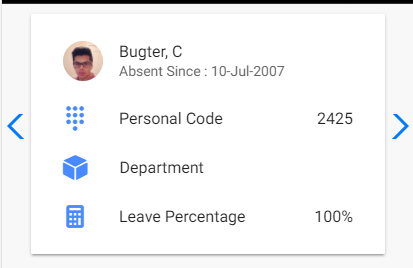
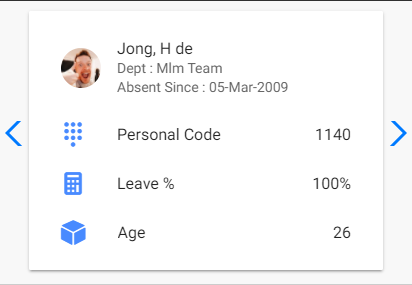
Working on Observations

diff --git a/src/pages/home/home.html b/src/pages/home/home.html
@@ -4,12 +4,13 @@
       <ion-slide *ngFor="let emp of absentemployees" style="margin-top: -14px;">
         <ion-card></ion-card>
         <ion-card>
-          <ion-item>
+          <ion-item>           
             <ion-item>
               <ion-avatar item-start>
                 <img [src]="emp.icon" alt="">
               </ion-avatar>
               <h2>{{emp.name}}</h2>
+              <p>Dept : Mlm Team {{emp.department}}</p>
               <p>Absent Since : {{emp.leaveStartDate | date:"dd-MMM-yyyy"}}</p>
             </ion-item>
             <ion-list>
@@ -17,16 +18,16 @@
                 <ion-icon name='keypad' item-start color="primary"></ion-icon>
                 <h2>Personal Code</h2>
                 <h2 item-end>{{emp.PersonalCode}}</h2>
+              </ion-item>              
+              <ion-item>
+                <ion-icon name='calculator' item-start color="primary"></ion-icon>
+                <h2>Leave %</h2>
+                <h2 item-end>{{emp.leavePercentage}}%</h2>
               </ion-item>
               <ion-item>
                 <ion-icon name='cube' item-start color="primary"></ion-icon>
-                <h2>Department</h2>
-                <h2 item-end>{{emp.department}}</h2>
-              </ion-item>
-              <ion-item>
-                <ion-icon name='calculator' item-start color="primary"></ion-icon>
-                <h2>Leave Percentage</h2>
-                <h2 item-end>{{emp.leavePercentage}}%</h2>
+                <h2>Age</h2>
+                <h2 item-end>{{emp.Age}}</h2>
               </ion-item>
             </ion-list>
           </ion-item>
@@ -47,10 +48,10 @@
     <button ion-fab mini><ion-icon name="add"></ion-icon></button>
   </ion-fab>
   <ion-list>
-    <ion-item-sliding *ngFor="let action of actions">
-      <ion-item style="padding:8px;">
-        <h2>{{action}}</h2>
-        <ion-icon name='md-arrow-forward' item-end color="danger" (click)="presentActionSheet(act)"></ion-icon>
+    <ion-item-sliding *ngFor="let action of actions; let i = index" style="padding:8px;">
+      <ion-item>
+        <ion-label>{{action}}</ion-label>
+        <ion-icon name='md-arrow-forward' item-end color="danger" (click)="presentActionSheet(i)"></ion-icon>
       </ion-item>
       <ion-item-options side="right">
         <button color="primary" ion-button (click)="presentActionSheet(act)">

diff --git a/src/pages/home/home.ts b/src/pages/home/home.ts
@@ -70,15 +70,14 @@ export class HomePage {
     this.checkForSlideButtons();
   }
 
-  removeAction(action) {
-    let index: number = this.actions.indexOf(action);
-    if (index !== -1) {
-      this.actions.splice(index, 1);
+  removeAction(i) {
+    if (i !== -1) {
+      this.actions.splice(i, 1);
     }
   }
 
-  markActionDone(emp) {
-    let index: number = this.absentemployees.indexOf(emp);
+  markActionDone() {
+    let index: number = this.absentemployees.indexOf(this.currentEmployee);
     if (index !== -1) {
       this.absentemployees.splice(index, 1);
     }
@@ -122,7 +121,7 @@ export class HomePage {
     }
   }
 
-  presentActionSheet(action: string) {
+  presentActionSheet(i: string) {
     let actionSheet = this.actionSheetCtrl.create({
       title: 'Perform Actions',
       buttons: [
@@ -139,16 +138,15 @@ export class HomePage {
             this.maps.loadMap("Hospitals");
           }
         }, {
-          text: 'Remove Action',
+          text: 'Mark it done',
           role: 'Remove',
           handler: () => {
-            this.removeAction(action)
+            this.removeAction(i)
           }
         }, {
           text: 'Mark Illness Complete',
-          handler: () => {
-            // var emp = this.absentemployees.find(x => x.employeeId == action.employeeId);
-            // this.markActionDone(emp);
+          handler: () => {            
+             this.markActionDone();
           }
         }, {
           text: 'Cancel',

diff --git a/src/pages/intro/intro.ts b/src/pages/intro/intro.ts
@@ -17,18 +17,18 @@ export class IntroPage {
 
   slides = [
     {
-      title: "Welcome to the App!",
-      description: "This app will help you reduce absensism by <b>Suggesting you effective actions using Artificial Intelligence</b>.",
-      image: "https://i.imgur.com/dvSEHDG.png",
+      title: "Welcome to Smart Actions!",
+      description: "This app will help you reduce absentism by <b>Suggesting you effective actions using Artificial Intelligence</b>.",
+      image: "https://i.imgur.com/bgCx4V6.png",
     },
     {
       title: "Absent Employees?",
-      description: "This section on the screen will show you the employee absent. You either click <b>next/prev</b> or slide <b>back/forward</b> to get the next/previous absent employee.",
-      image: "https://i.imgur.com/SYSpjLH.png",
+      description: "This section on the screen will show you the employee absent. You either slide <b>back/forward</b> or click <b></></b> to get the next/previous absent employee.",
+      image: "https://i.imgur.com/iqgJZOw.png",
     },
     {
       title: "Actions?",
-      description: "Slide <b>Back/Forward</b> to get options to perform the actions or <b>Touch the arrow icon</b>.",
+      description: "<b>Swipe left or right</b> on the action to get additional options, or click on the <b>arrow icon</b>.",
       image: "https://i.imgur.com/at8Orz3.png",
     },
     {

diff --git a/src/pages/intro/intro.html b/src/pages/intro/intro.html
@@ -19,7 +19,7 @@
       <ion-slide>
         <ion-toolbar>
         </ion-toolbar>
-        <img src="https://i.imgur.com/dvSEHDG.png" class="slide-image"/>
+        <img src="https://i.imgur.com/bgCx4V6.png" class="slide-image"/>
         <h2 class="slide-title">Let's get your employee back!</h2>
         <button ion-button large clear icon-end color="primary" (click)="gotoHome()">
           Continue
